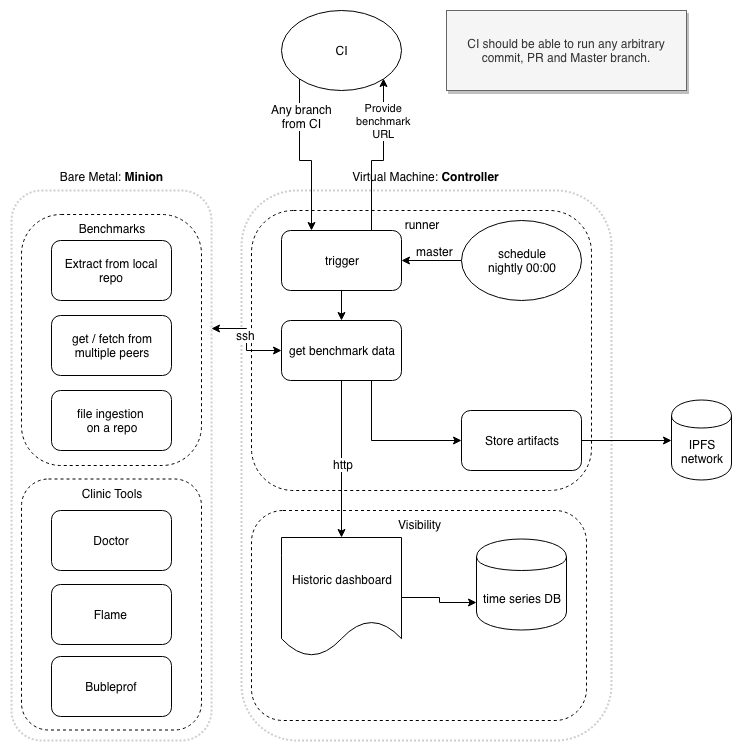
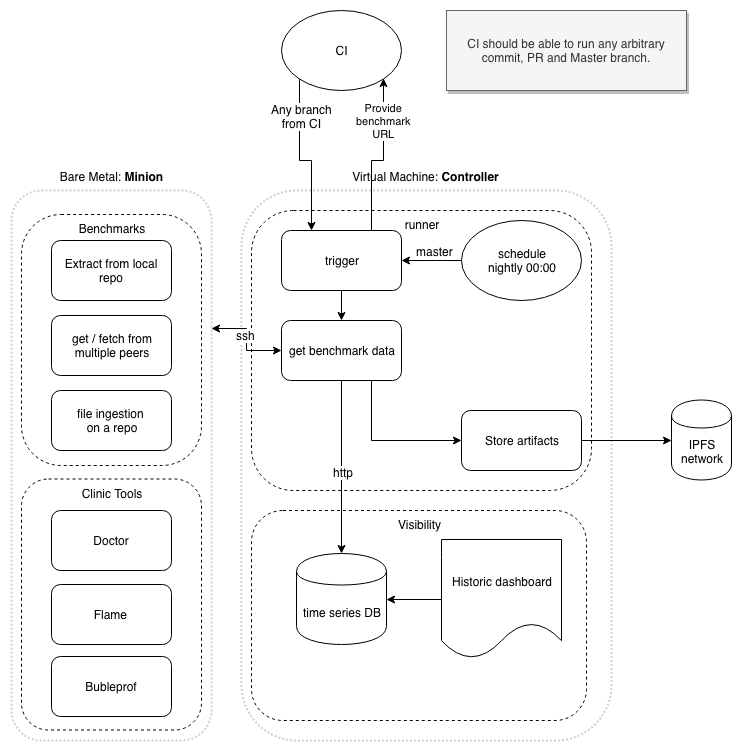
image update and add clinic

diff --git a/docs/runner.md b/docs/runner.md
@@ -40,12 +40,15 @@ Production is comprised of two hosts:
 
 ### controller
 The controller runs the [runner](../runner/) as a daemon in a docker container and exposes an endpoint to be able to trigger a benchmark run with parameters.
-Also the datastore, InfluxDB, and the dashboard, Grafana, are run inside containers, all using [docker-compose](https://docs.docker.com/compose/).
+Also the datastore, `InfluxDB`, and the dashboard, `Grafana`, are run inside containers, all using [docker-compose](https://docs.docker.com/compose/).
 
 The runner can be triggered from a remote resource but will, at least, be triggered once a day on a schedule to ensure there is a data point for each day.
 
 The runner is responsible for running the latest benchmark tests on the `minion`. [Ansible](https://www.ansible.com/) is used to manage the provisioning state of the `minion` before each run. The benchmarks write the test results in a file determined by a parameter. After the run, this file is retrieved and parsed by the runner. The results are then written to the datastore as well as stored on the IPFS network.
 
 ### minion
-This `bare metal` machine will be kept as clean as possible to enable reliable results from the benchmarks. Tests are run over `ssh` from the `controller`. At the end of the test, any generated files and resources should be cleaned up.
-Tests kept up to date before each run and are always run in sequence.
+This `bare metal` machine will be kept as clean as possible to enable reliable results from the benchmarks. Tests are run over `ssh` from the `controller`.
+
+After the benchmark test is run to get an accurate result the same test will be run using clinic tools to provide in depth analysis.
+
+Tests kept up to date before each run and are always run in sequence. After each test, any generated files and resources will be retrieved by the runner and cleaned up after successful reception..
